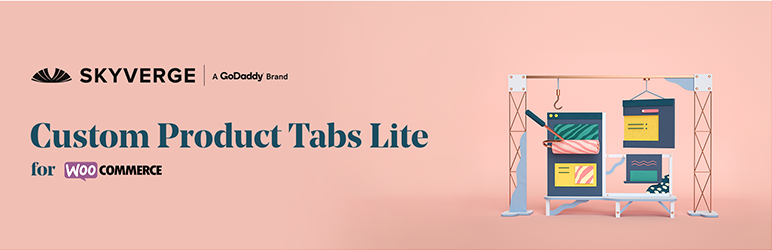
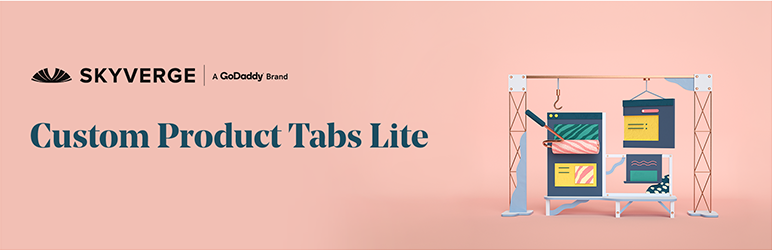
Address plugin team concerns
- Remove WooCommerce logo from banner image
- Sanitize inputs / escape outputs

Changed region(s): [[0.0311, 0.644, 0.2176, 0.728]]

diff --git a/woocommerce-custom-product-tabs-lite.php b/woocommerce-custom-product-tabs-lite.php
@@ -5,7 +5,7 @@
  * Description: Extends WooCommerce to add a custom product view page tab
  * Author: SkyVerge
  * Author URI: http://www.skyverge.com/
- * Version: 1.7.6
+ * Version: 1.7.7-dev.1
  * Tested up to: 6.0.1
  * Text Domain: woocommerce-custom-product-tabs-lite
  * Domain Path: /i18n/languages/
@@ -40,7 +40,7 @@ class WooCommerceCustomProductTabsLite {
 
 
 	/** plugin version number */
-	const VERSION = '1.7.6';
+	const VERSION = '1.7.7-dev.1';
 
 	/** required WooCommerce version number */
 	const MIN_WOOCOMMERCE_VERSION = '3.9.4';
@@ -188,7 +188,7 @@ class WooCommerceCustomProductTabsLite {
 		$content = str_replace( ']]>', ']]&gt;', $content );
 
 		echo apply_filters( 'woocommerce_custom_product_tabs_lite_heading', '<h2>' . $tab['title'] . '</h2>', $tab );
-		echo apply_filters( 'woocommerce_custom_product_tabs_lite_content', $content, $tab );
+		echo apply_filters( 'woocommerce_custom_product_tabs_lite_content', wp_kses_post( $content ), $tab );
 	}
 
 
@@ -263,7 +263,7 @@ class WooCommerceCustomProductTabsLite {
 	 */
 	public function product_save_data( $post_id, $post ) {
 
-		$tab_title   = stripslashes( $_POST['_wc_custom_product_tabs_lite_tab_title'] );
+		$tab_title   = sanitize_text_field( $_POST['_wc_custom_product_tabs_lite_tab_title'] );
 		$tab_content = stripslashes( $_POST['_wc_custom_product_tabs_lite_tab_content'] );
 		$product     = wc_get_product( $post_id );
 
